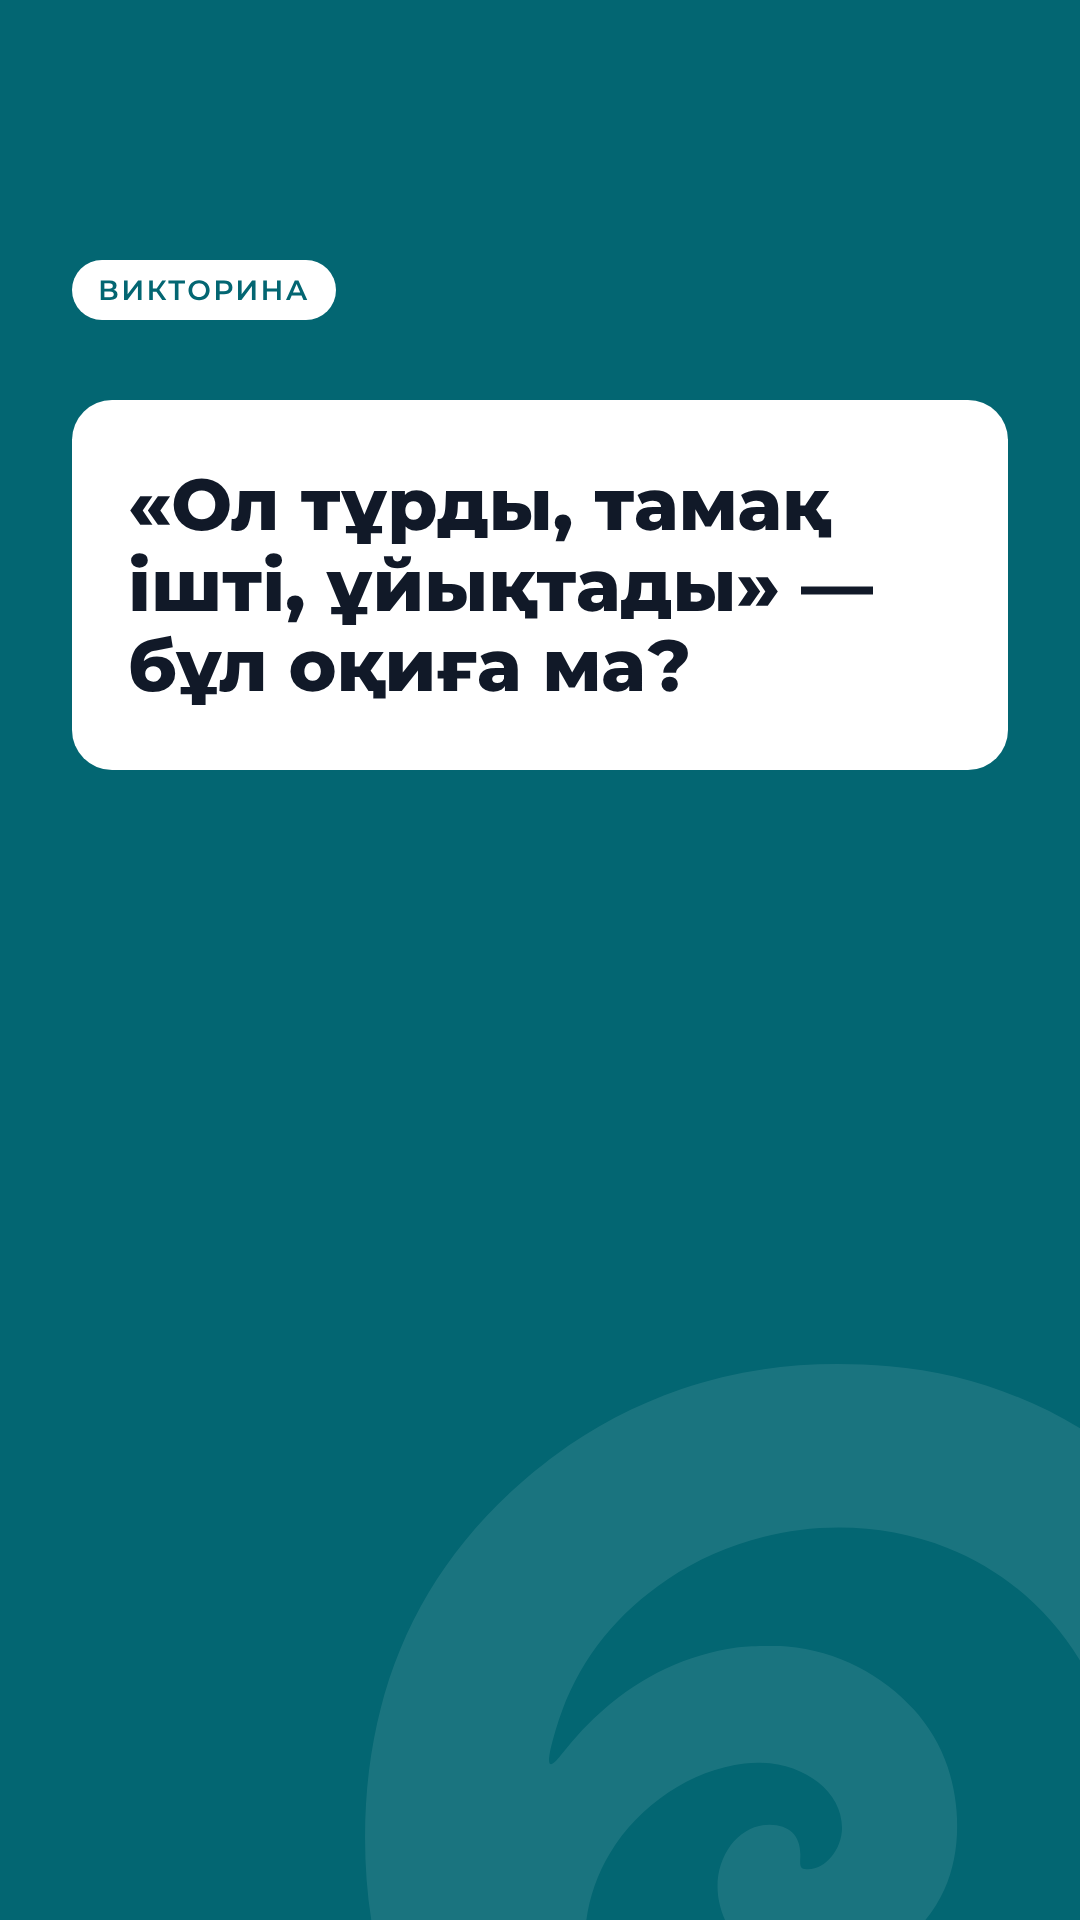
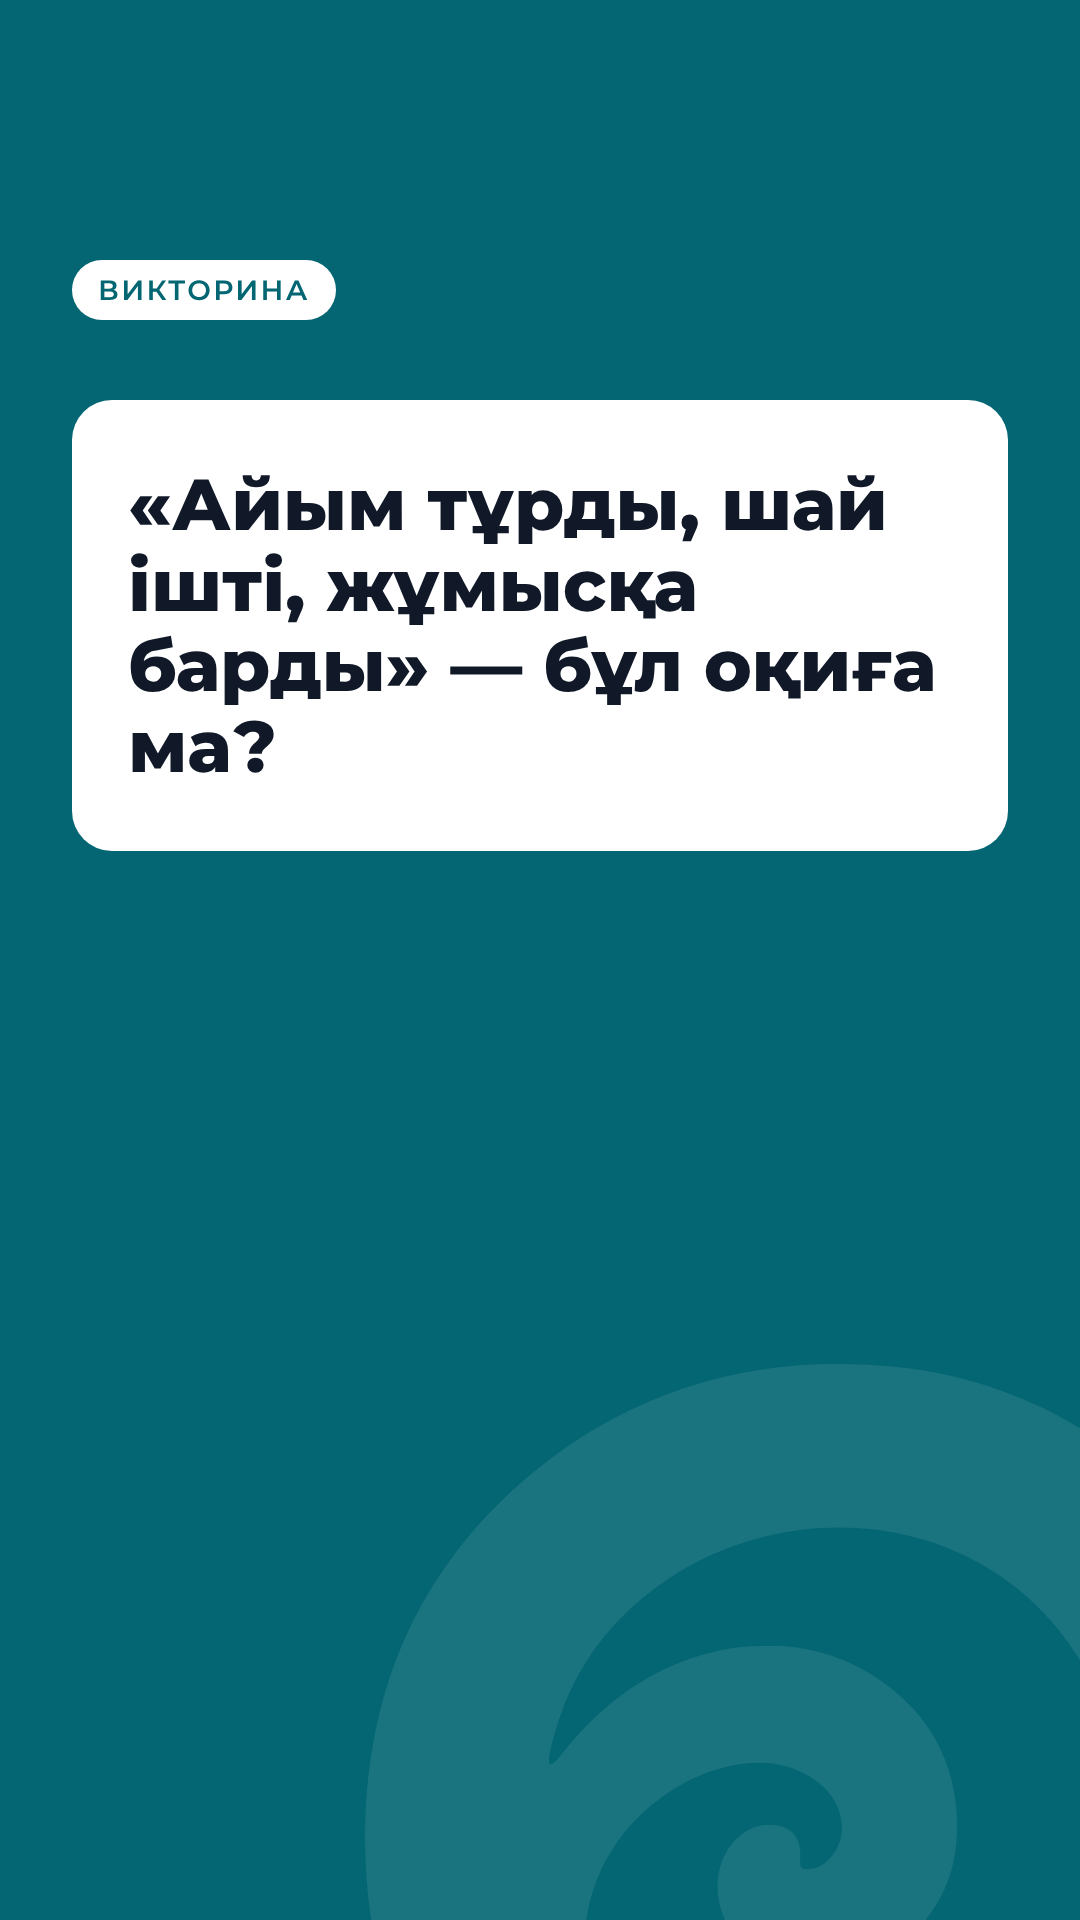
Rework the first four lessons around Түнгі пошта
Examples, captions and quizzes follow the running story; Reels scripts
are text-only with music; plan records the owner's decisions.

Claude-Session: https://claude.ai/code/session_01FTUVU95tvv6KgeLkZJcVx1

Changed region(s): [[0.0611, 0.25, 0.9472, 0.4688]]

diff --git a/plan/storytelling-course.md b/plan/storytelling-course.md
@@ -1,7 +1,7 @@
 # Курс «Сторителинг»: план серии в «Авторлар мектебі»
 
 Дата: 17 октября 2026 года, версия 2 (переработка после разбора).
-Статус: **черновик, ждёт утверждения владельца.** Основа — разбор восьми
+Статус: **утверждён владельцем 17.10.2026.** Основа — разбор восьми
 книг о сторителлинге (`docs/storytelling-books.md`) и практика веб-новелл.
 
 ## Разбор версии 1 глазами автора веб-новелл
@@ -128,7 +128,13 @@
 | 20–27 | задание одной строкой |
 | 27–30 | «Бір бөлімнен баста · qazaqnovel.kz» |
 
-Субтитры только казахские. Обложка — `reels_cover` (title ≤ 35 знаков).
+**Без голоса, со звуком** (решение владельца): весь текст — на экране, он
+же субтитры, только по-казахски. Музыка — инструментальная, из библиотеки
+Instagram (у бизнес-аккаунта — только разрешённая для коммерции), выбирается
+в редакторе при публикации; смена экрана на сильную долю, по возможности
+звуковой эффект (шорох бумаги и т. п.). Сценарий — `reels/script.md` в
+папке урока: секунды, текст на экране, звук. Обложка — `reels_cover`
+(title ≤ 35 знаков).
 
 ### Сторис недели
 
@@ -215,19 +221,27 @@ R — урок с Reels.
   опубликованных первых бөлім с хэштегом и UTM. По итогам правим сезоны 2
   и 3.
 
-## Статус модуля 1 (уроки 1–4)
+## Статус
 
-Готов (`posts/2026-12/`, статус `draft`) по версии 1. Темы и порядок в
-версии 2 те же. Отличается только пример: в версии 2 примеры — на
-«Түнгі пошта» вместо Армана, Даны и «жетім қыз». Переделать примеры
-после утверждения сквозной истории.
+Уроки 1–4 готовы (`posts/2026-12/`, статус `draft`): карусели, сторис,
+обложки и сценарии Reels; примеры — на «Түнгі пошта». Вычитка до 30.11.
+
+## Версия «Ер Төстік» (урок 21)
+
+Решение владельца — взять рекомендованную: **общий для всех записей
+сюжетный остов**, без деталей, которые различаются между вариантами.
+Опора — академический текст из серии «Бабалар сөзі» (тома с ертегі) или
+текст школьной хрестоматии, который знает аудитория; перед уроком 21
+владелец сверяет пересказ с выбранным текстом. В карусель идут только
+этапы пути: дом Ерназара → уход на поиски братьев → помощники (Шалқұйрық)
+→ испытание под землёй → возвращение домой. Имена и эпизоды — только те,
+что есть в выбранном тексте.
 
 ## Что нужно решить владельцу
 
 1. ~~Название серии~~ — решено: «Сторителинг».
-2. ~~Все понедельники подряд или чередовать~~ — в версии 2 предложено:
-   три сезона с паузами. Подтвердить.
-3. Сквозная история «Түнгі пошта» — подходит? Можно ли в конце
-   опубликовать её на сайте как учебный пример?
-4. Reels: текстовая анимация без голоса или голос владельца за кадром?
-5. Версия «Ер Төстік» для урока 21 — какую считаем каноничной.
+2. ~~Расписание~~ — три сезона с паузами, принято.
+3. ~~Сквозная история~~ — «Түнгі пошта», принято. Публиковать ли её на
+   сайте как учебный пример — решить к концу сезона 3.
+4. ~~Reels~~ — без голоса, со звуком.
+5. ~~Версия «Ер Төстік»~~ — общий сюжетный остов, сверка перед уроком 21.

diff --git a/posts/2026-12/07-avtorlar-mektebi-oqighanyn-ush-negizi/reels/script.md b/posts/2026-12/07-avtorlar-mektebi-oqighanyn-ush-negizi/reels/script.md
@@ -1,16 +1,23 @@
 # Reels: «Оқиғаның үш негізі» (урок 1, ~30 с)
 
-Формат не выбран: текст на экране (анимация) или голос за кадром — текст
-подходит для обоих. Субтитры — те же строки. Фон и шрифты — как у карусели.
+**Формат (решение владельца):** без голоса, со звуком. Только текст на
+экране — он же служит субтитрами. Фон и шрифты — как у карусели: бирюза,
+текст по центру, одна фраза на экран.
 
-| Секунды | На экране (и голосом) |
-|---|---|
-| 0–2 | Неге кейбір оқиға жалықтырады? |
-| 2–6 | Себебі онда оқиға жоқ. Тек оқиғалар тізімі бар. |
-| 6–10 | «Арман тұрды. Шай ішті. Мектепке барды.» |
-| 10–14 | Оқиғаға үш нәрсе керек: кейіпкер, қалау, кедергі. |
-| 14–21 | «Арман бүгін кешікпеуі керек — тағы кешіксе, мектептен шығарады. Ал автобус келмеді.» |
-| 21–26 | Енді оқырман сұрайды: үлгере ме? Міне, оқиға осы. |
-| 26–30 | Өз оқиғаңды бір сөйлемге жаз. Бір бөлімнен баста · qazaqnovel.kz |
+**Звук:** спокойная, чуть загадочная инструментальная музыка (пианино,
+лоу-фай) из библиотеки Instagram — выбирается в редакторе Reels при
+публикации. У бизнес-аккаунта доступна только библиотека, разрешённая для
+коммерческого использования. Смена экрана — на сильную долю. Звуковые
+эффекты (шорох бумаги, конверт) — из «Эффектов» редактора, если есть.
+
+| Секунды | На экране | Звук |
+|---|---|---|
+| 0–2 | Неге кейбір оқиға жалықтырады? | музыка с первой секунды |
+| 2–6 | Себебі онда оқиға жоқ. Тек оқиғалар тізімі бар. | |
+| 6–11 | «Айым түнде поштада жұмыс істеді. Хаттарды сұрыптады. Үйге қайтты.» — затем зачёркивается | ровно, без акцента |
+| 11–15 | Оқиғаға үш нәрсе керек: кейіпкер · қалау · кедергі | три слова — на три доли |
+| 15–22 | «Айым хатты кім жазғанын білгісі келеді. Жазу — өзінікі. Бірақ хат отыз жыл бұрын жіберілген.» | шорох конверта на «хат» |
+| 22–26 | Енді оқырман сұрайды: бұл қалай мүмкін? | пауза в музыке, если позволяет трек |
+| 26–30 | Өз оқиғаңды бір сөйлемге жаз. Бір бөлімнен баста · qazaqnovel.kz | |
 
 Подпись к Reels — первая строка и тапсырма из caption карусели, хэштеги те же.

diff --git a/posts/2026-12/21-avtorlar-mektebi-loglain/reels/script.md b/posts/2026-12/21-avtorlar-mektebi-loglain/reels/script.md
@@ -1,13 +1,14 @@
 # Reels: «Логлайн деген не?» (урок 3, ~30 с)
 
-Формат не выбран: текст на экране (анимация) или голос за кадром — текст
-подходит для обоих. Субтитры — те же строки.
+**Формат:** без голоса, со звуком — как в Reels урока 1
+(`07-…/reels/script.md`): текст на экране, музыка из библиотеки Instagram,
+смена экрана на сильную долю.
 
-| Секунды | На экране (и голосом) |
-|---|---|
-| 0–2 | Оқиғаңды бір сөйлеммен айта аласың ба? |
-| 2–7 | Бұл сөйлемнің аты бар — логлайн. |
-| 7–14 | Төрт сұрақ: кім? не қалайды? не кедергі? жеңілсе не болады? |
-| 14–22 | «Жетім қыз анасын іздеуге бел буады, бірақ оның өткенін білетіндердің бәрі үндемейді.» |
-| 22–26 | Соңын айтпа. Тек кейіпкер, мақсат, кедергі. |
-| 26–30 | Логлайныңды пікірге жаз. Бір бөлімнен баста · qazaqnovel.kz |
+| Секунды | На экране | Звук |
+|---|---|---|
+| 0–2 | Оқиғаңды бір сөйлеммен айта аласың ба? | музыка с первой секунды |
+| 2–6 | Бұл сөйлемнің аты бар — логлайн. | |
+| 6–13 | Кім? · Не қалайды? · Не кедергі? · Жеңілсе не болады? | четыре вопроса — на четыре доли |
+| 13–22 | «Айым өз қолымен жазылған ескі хат табады: құпияны ашпаса, жақын адамынан айырылады.» | шорох конверта |
+| 22–26 | Соңын айтпа. Тек кейіпкер, мақсат, кедергі. | |
+| 26–30 | Логлайныңды пікірге жаз. Бір бөлімнен баста · qazaqnovel.kz | |
